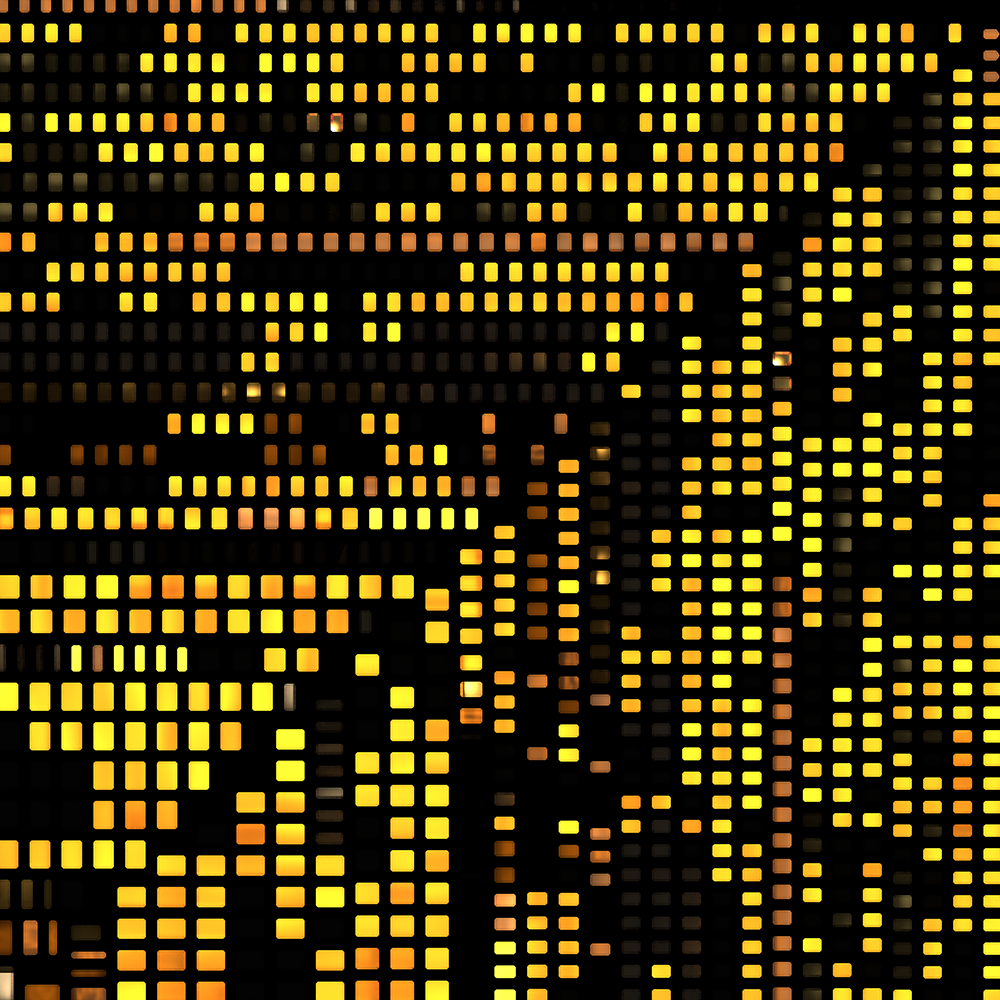
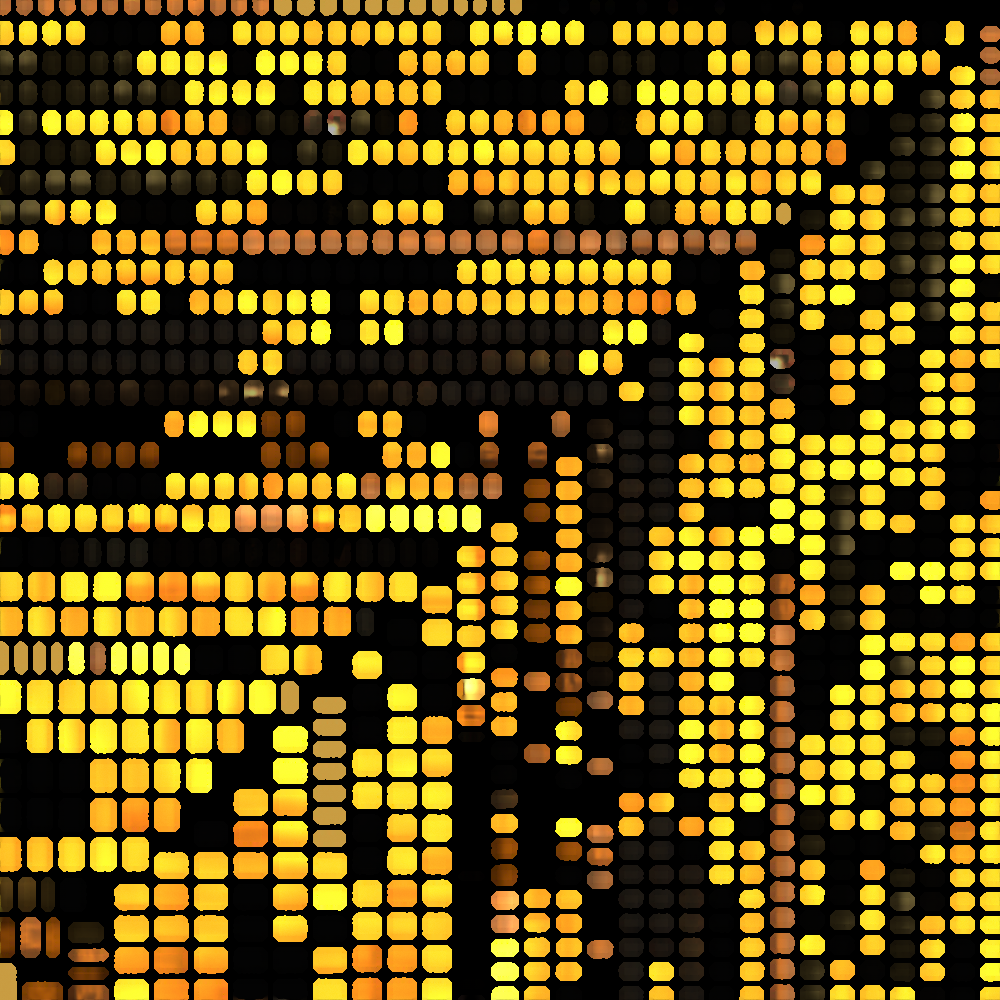
Updates

Changed region(s): [[0.0, 0.0, 1.0, 1.0], [0.062, 0.372, 0.093, 0.403]]

diff --git a/index.html b/index.html
@@ -24,7 +24,7 @@
   <div class="right" hide></div>
 
   <script src="https://cdnjs.cloudflare.com/ajax/libs/three.js/0.149.0/three.min.js"></script>
-  <script src="./bundle38.js"></script>
+  <script src="./bundle37.js"></script>
   <script type="module">
     const container = document.querySelector(".narkomfin-canvas-container")
     const progressLabel = container.querySelector(".narkomfin-progress-label")
